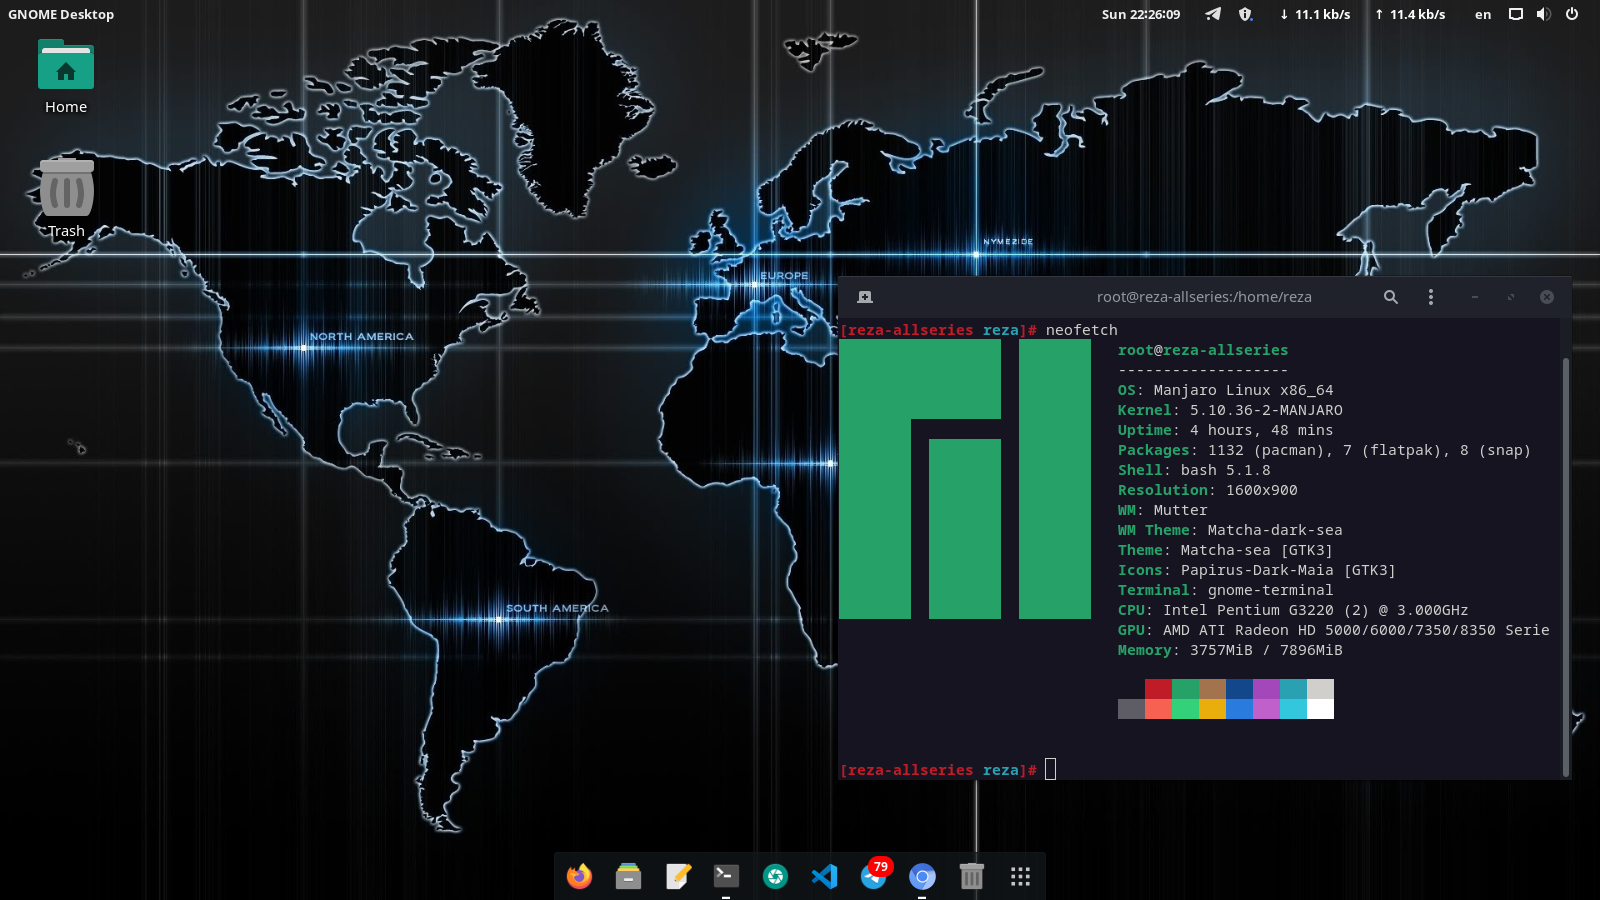
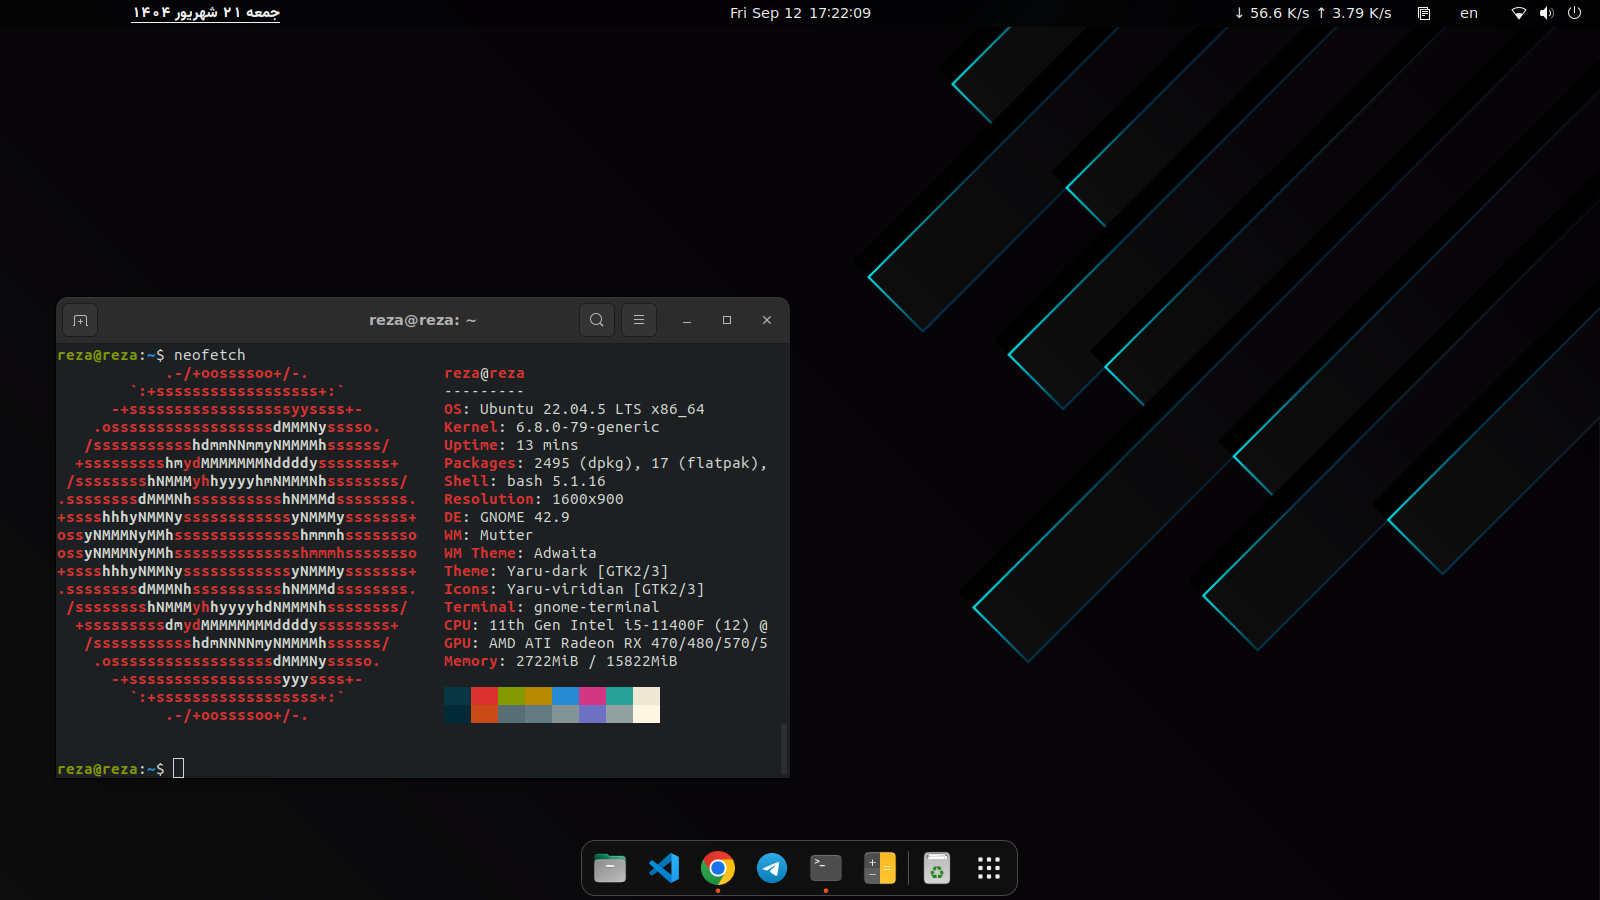
feat: update desktop image

diff --git a/README.md b/README.md
@@ -19,7 +19,6 @@ FrontEnd: [
 BackEnd: [
     NodeJs,
     ExpressJs,
-    MySQL
 ]
 ```
 ## Languages & Tools Detail 🔱
@@ -96,10 +95,6 @@ BackEnd: [
 <a href="https://vitejs.dev/">
     <img align="center" src="https://vitejs.dev/logo.svg" alt="vitejs" height="40" width="40" />
 </a>
-    
-<a href="https://manjaro.org/">
-    <img align="center" src="https://manjaro.org/img/logo.svg" alt="manjaro" height="40" width="40" />
-</a>
 
 <a href="https://tailwindcss.com/">
     <img align="center" src="https://iconape.com/wp-content/png_logo_vector/tailwind-css-logo.png" alt="tailwindcss" height="40" width="60" />
@@ -110,18 +105,10 @@ BackEnd: [
 </a>
 </p>
 
-## 💻 My Project 
-- [Music Player](https://music-player-ramezanidev.vercel.app/) `typescript` `pwa` `tailwindcss` `vitejs` `pinia`
-- [Landing Page](https://landing-page-lime.vercel.app/) `typescript` `hbs` `tailwindcss` `vitejs`
-- [Messenger](https://views-ramezanidev.vercel.app/) `typescript` `sass` `tailwindcss` `vitejs` `socketio`
-- [PlazaMovie](https://plazamovie.vercel.app/) `vuejs` `nuxtjs` `typescript` `tailwindcss`
-- [Educational Site Template](https://educational-site-template.vercel.app/) `vuejs` `nuxtjs` `vuetifyjs` `mdi`
-- [Weather App](https://weather-app-vuejs.vercel.app/) `vue` `vue-cli` `openweathermap api`
-
 ## 📞 Social Media
 - [Phone Number](tel:+98-991-622-3724): +98-991-622-3724
 - [linkedin](https://www.linkedin.com/in/ramezanidev/): @ramezanidev
 
 ## 💻 My Desktop
-##### ManjaroOS + GnomeDESKTOP
-![ManjaroOS_GnomeDESKTOP](https://github.com/ramezanidev/ramezanidev/blob/main/desktop.png?raw=true)
+##### Ubuntu + GnomeDESKTOP
+![UbuntuOS_GnomeDESKTOP](https://github.com/ramezanidev/ramezanidev/blob/main/desktop.png?raw=true)
